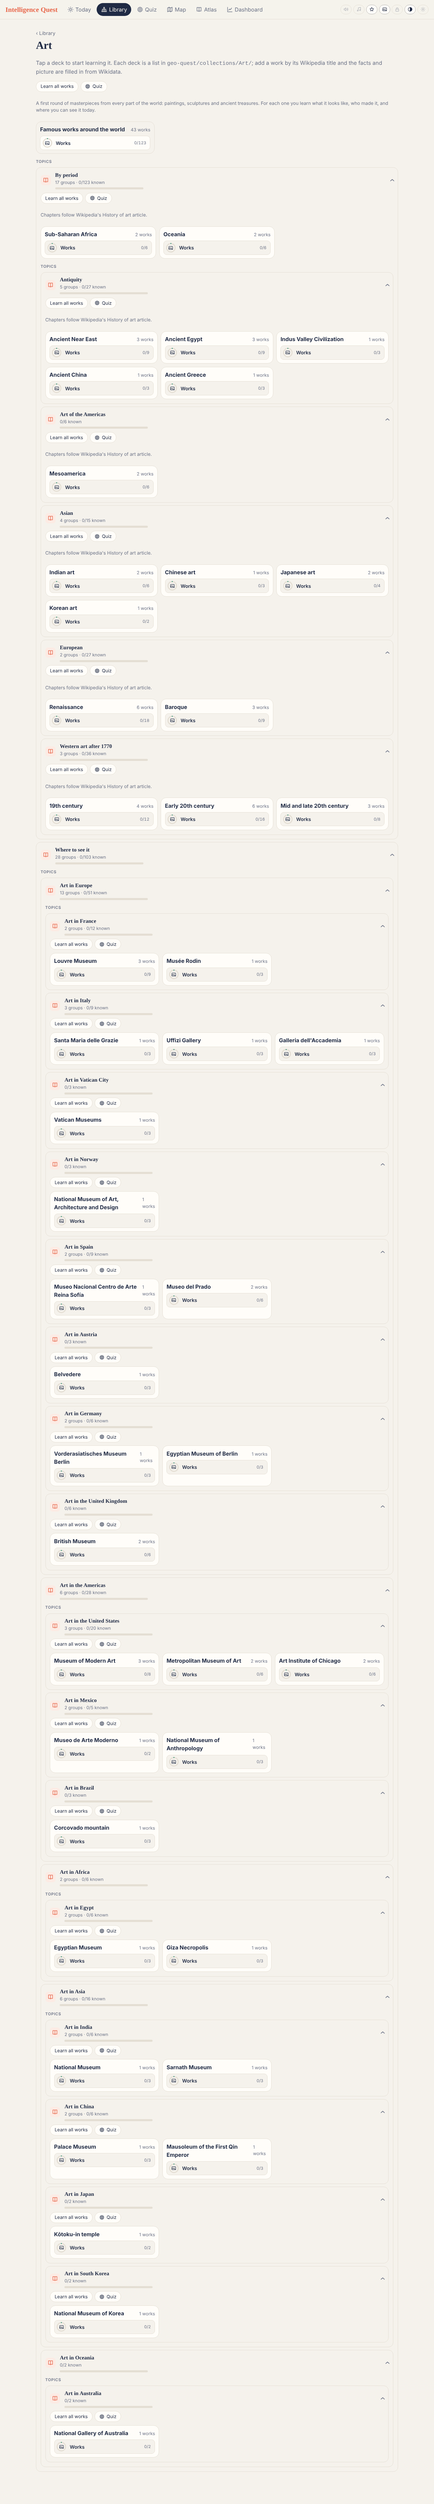
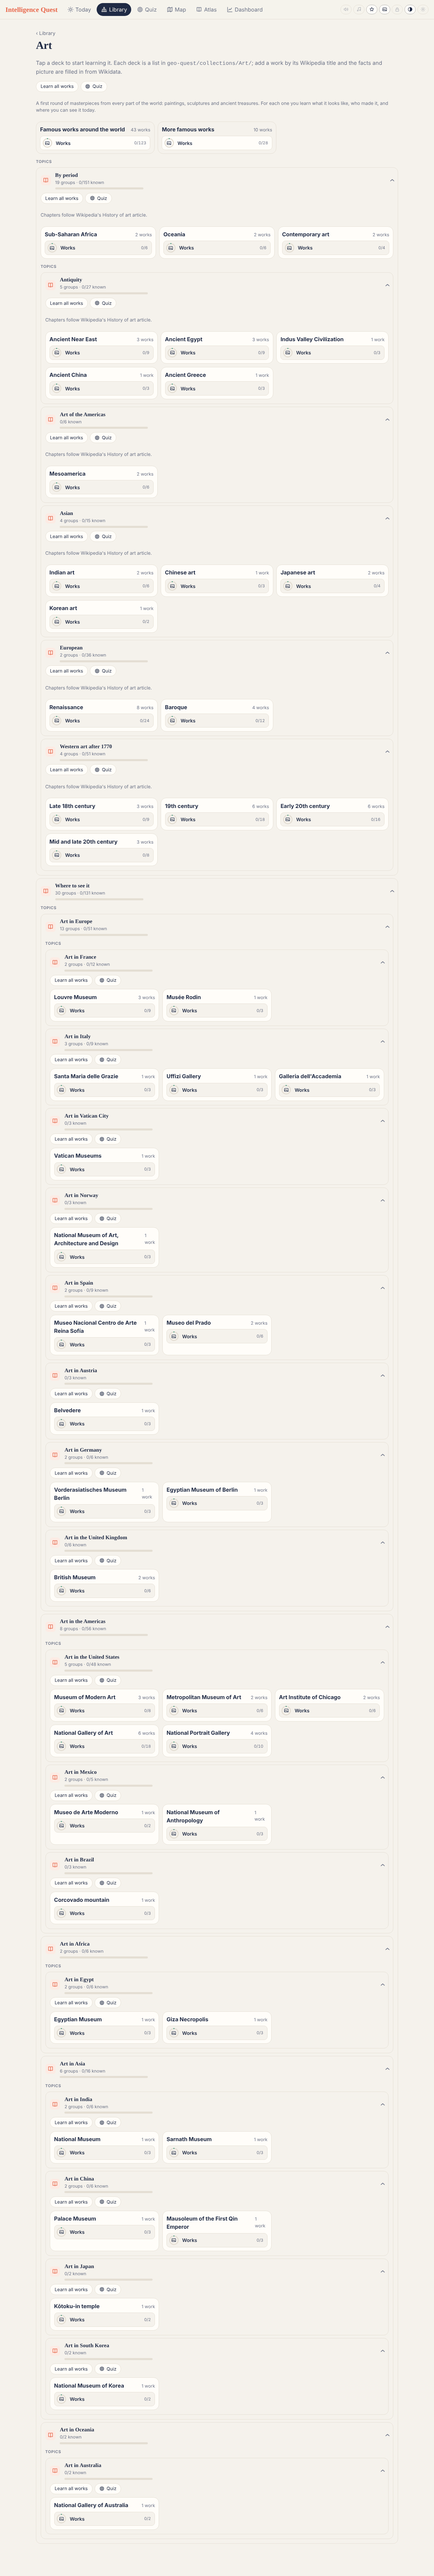
v1.17.1: National Gallery of Art and National Portrait Gallery
Claude-Session: https://claude.ai/code/session_011UbiCnEELSS8NSzpbBMvVr

diff --git a/geo-quest/src/changelog.ts b/geo-quest/src/changelog.ts
@@ -1,5 +1,6 @@
 // Shown on the home screen. Add a line at the top with each update (and bump package.json "version").
 export const CHANGELOG: { version: string; notes: string }[] = [
+  { version: '1.17.1', notes: 'Art: the National Gallery of Art and the National Portrait Gallery in Washington (Ginevra de\' Benci, Woman Holding a Balance, the Lansdowne portrait, the Obama portraits…)' },
   { version: '1.17.0', notes: 'Map names now sit on their own country (no more Russia over Alaska) and name only what the deck is about (US states on US maps) · Art by period (History of art) and where to see it (continent › country › museum) · Computer science: Information Systems, a card per chapter · a full bug sweep' },
   { version: '1.16.1', notes: 'China history: every card has its own picture (Liu Bang, Confucius, Kublai Khan, the Great Wall…) and names in Chinese with pinyin · history cards ask for the event, not the year, except landmark dates' },
   { version: '1.16.0', notes: 'Time-scale cards: see the eon and era, name the blank periods · pictures on history cards (Wikipedia) and biology cards (the textbook\'s own figures) · fill-in-the-blank everywhere, one fact per card, long lists hidden three at a time · local names only on the card whose answer they name' },

diff --git a/geo-quest/README.md b/geo-quest/README.md
@@ -33,6 +33,15 @@ world map fill in as you master it.
   (senior/junior rank, party & caucus, terms, leadership roles) and its public-domain official portraits.
   - State → senator (map locks on the state, silhouette until reveal) · photo → senator · senator → tap the state.
 
+## v1.17.1: Washington, D.C. museums
+
+- New list `collections/Art/More famous works.md` (works added a museum at a time): 6 from the **National Gallery of
+  Art** (Ginevra de' Benci, Woman Holding a Balance, the Alba Madonna, Woman with a Parasol, Watson and the Shark, The
+  White Girl) and 4 from the **National Portrait Gallery** (the Lansdowne and Athenaeum portraits of Washington, the
+  Obama portraits). They show under Where to see it › Art in the Americas › Art in the United States, and in their
+  period lists (new: Late 18th century, Contemporary art). Fixes: the National Gallery's place (Wikidata gives it no
+  position), the 1778 original of Watson and the Shark, Whistler's date.
+
 ## v1.17: labels, Art organized, Information Systems, bug sweep
 
 - **Map names in the right place.** A label is placed at the place's real middle, projected (not the middle of the

diff --git a/geo-quest/collections/Art/More famous works.md b/geo-quest/collections/Art/More famous works.md
@@ -1,0 +1,19 @@
+---
+title: More famous works
+kind: artwork
+---
+Works added after the first round, often a museum at a time. Each also lands under Where to see it (its museum) and in its period list.
+
+## National Gallery of Art, Washington
+- Q1267893 Ginevra de' Benci
+- Q969367 Woman Holding a Balance
+- Q254923 Alba Madonna
+- Q2395218 Woman with a Parasol – Madame Monet and Her Son
+- Q1787460 Watson and the Shark
+- Q970968 Symphony in White, No. 1: The White Girl
+
+## National Portrait Gallery, Washington
+- Q1760522 Lansdowne portrait
+- Q28796116 Athenaeum Portrait
+- Q50303833 President Barack Obama (painting)
+- Q50304023 First Lady Michelle Obama (painting)

diff --git a/geo-quest/collections/Art/By period/8 Western art after 1770/1 19th century.md b/geo-quest/collections/Art/By period/8 Western art after 1770/1 19th century.md
@@ -15,3 +15,7 @@ Chapters follow Wikipedia's History of art article.
 
 ## Post-Impressionism
 - Q45585 The Starry Night
+
+## Impressionism and Aestheticism
+- Q2395218 Woman with a Parasol – Madame Monet and Her Son
+- Q970968 Symphony in White, No. 1: The White Girl

diff --git a/geo-quest/collections/Art/By period/8 Western art after 1770/0 Late 18th century.md b/geo-quest/collections/Art/By period/8 Western art after 1770/0 Late 18th century.md
@@ -1,0 +1,10 @@
+---
+title: Late 18th century
+kind: artwork
+---
+Chapters follow Wikipedia's History of art article.
+
+## American portraits and history painting
+- Q1787460 Watson and the Shark
+- Q1760522 Lansdowne Portrait
+- Q28796116 Athenaeum Portrait

diff --git a/geo-quest/collections/Art/By period/9 Contemporary art.md b/geo-quest/collections/Art/By period/9 Contemporary art.md
@@ -1,0 +1,9 @@
+---
+title: Contemporary art
+kind: artwork
+---
+Chapters follow Wikipedia's History of art article.
+
+## 21st-century portraits
+- Q50303833 President Barack Obama
+- Q50304023 First Lady Michelle Obama

diff --git a/geo-quest/collections/Art/By period/7 European/1 Renaissance.md b/geo-quest/collections/Art/By period/7 European/1 Renaissance.md
@@ -13,3 +13,7 @@ Chapters follow Wikipedia's History of art article.
 
 ## Northern Renaissance
 - Q321303 The Garden of Earthly Delights
+
+## In Washington
+- Q1267893 Ginevra de' Benci
+- Q254923 Alba Madonna

diff --git a/geo-quest/collections/Art/By period/7 European/2 Baroque.md b/geo-quest/collections/Art/By period/7 European/2 Baroque.md
@@ -10,3 +10,6 @@ Chapters follow Wikipedia's History of art article.
 
 ## Spanish Baroque
 - Q208758 Las Meninas
+
+## Dutch Golden Age, in Washington
+- Q969367 Woman Holding a Balance
